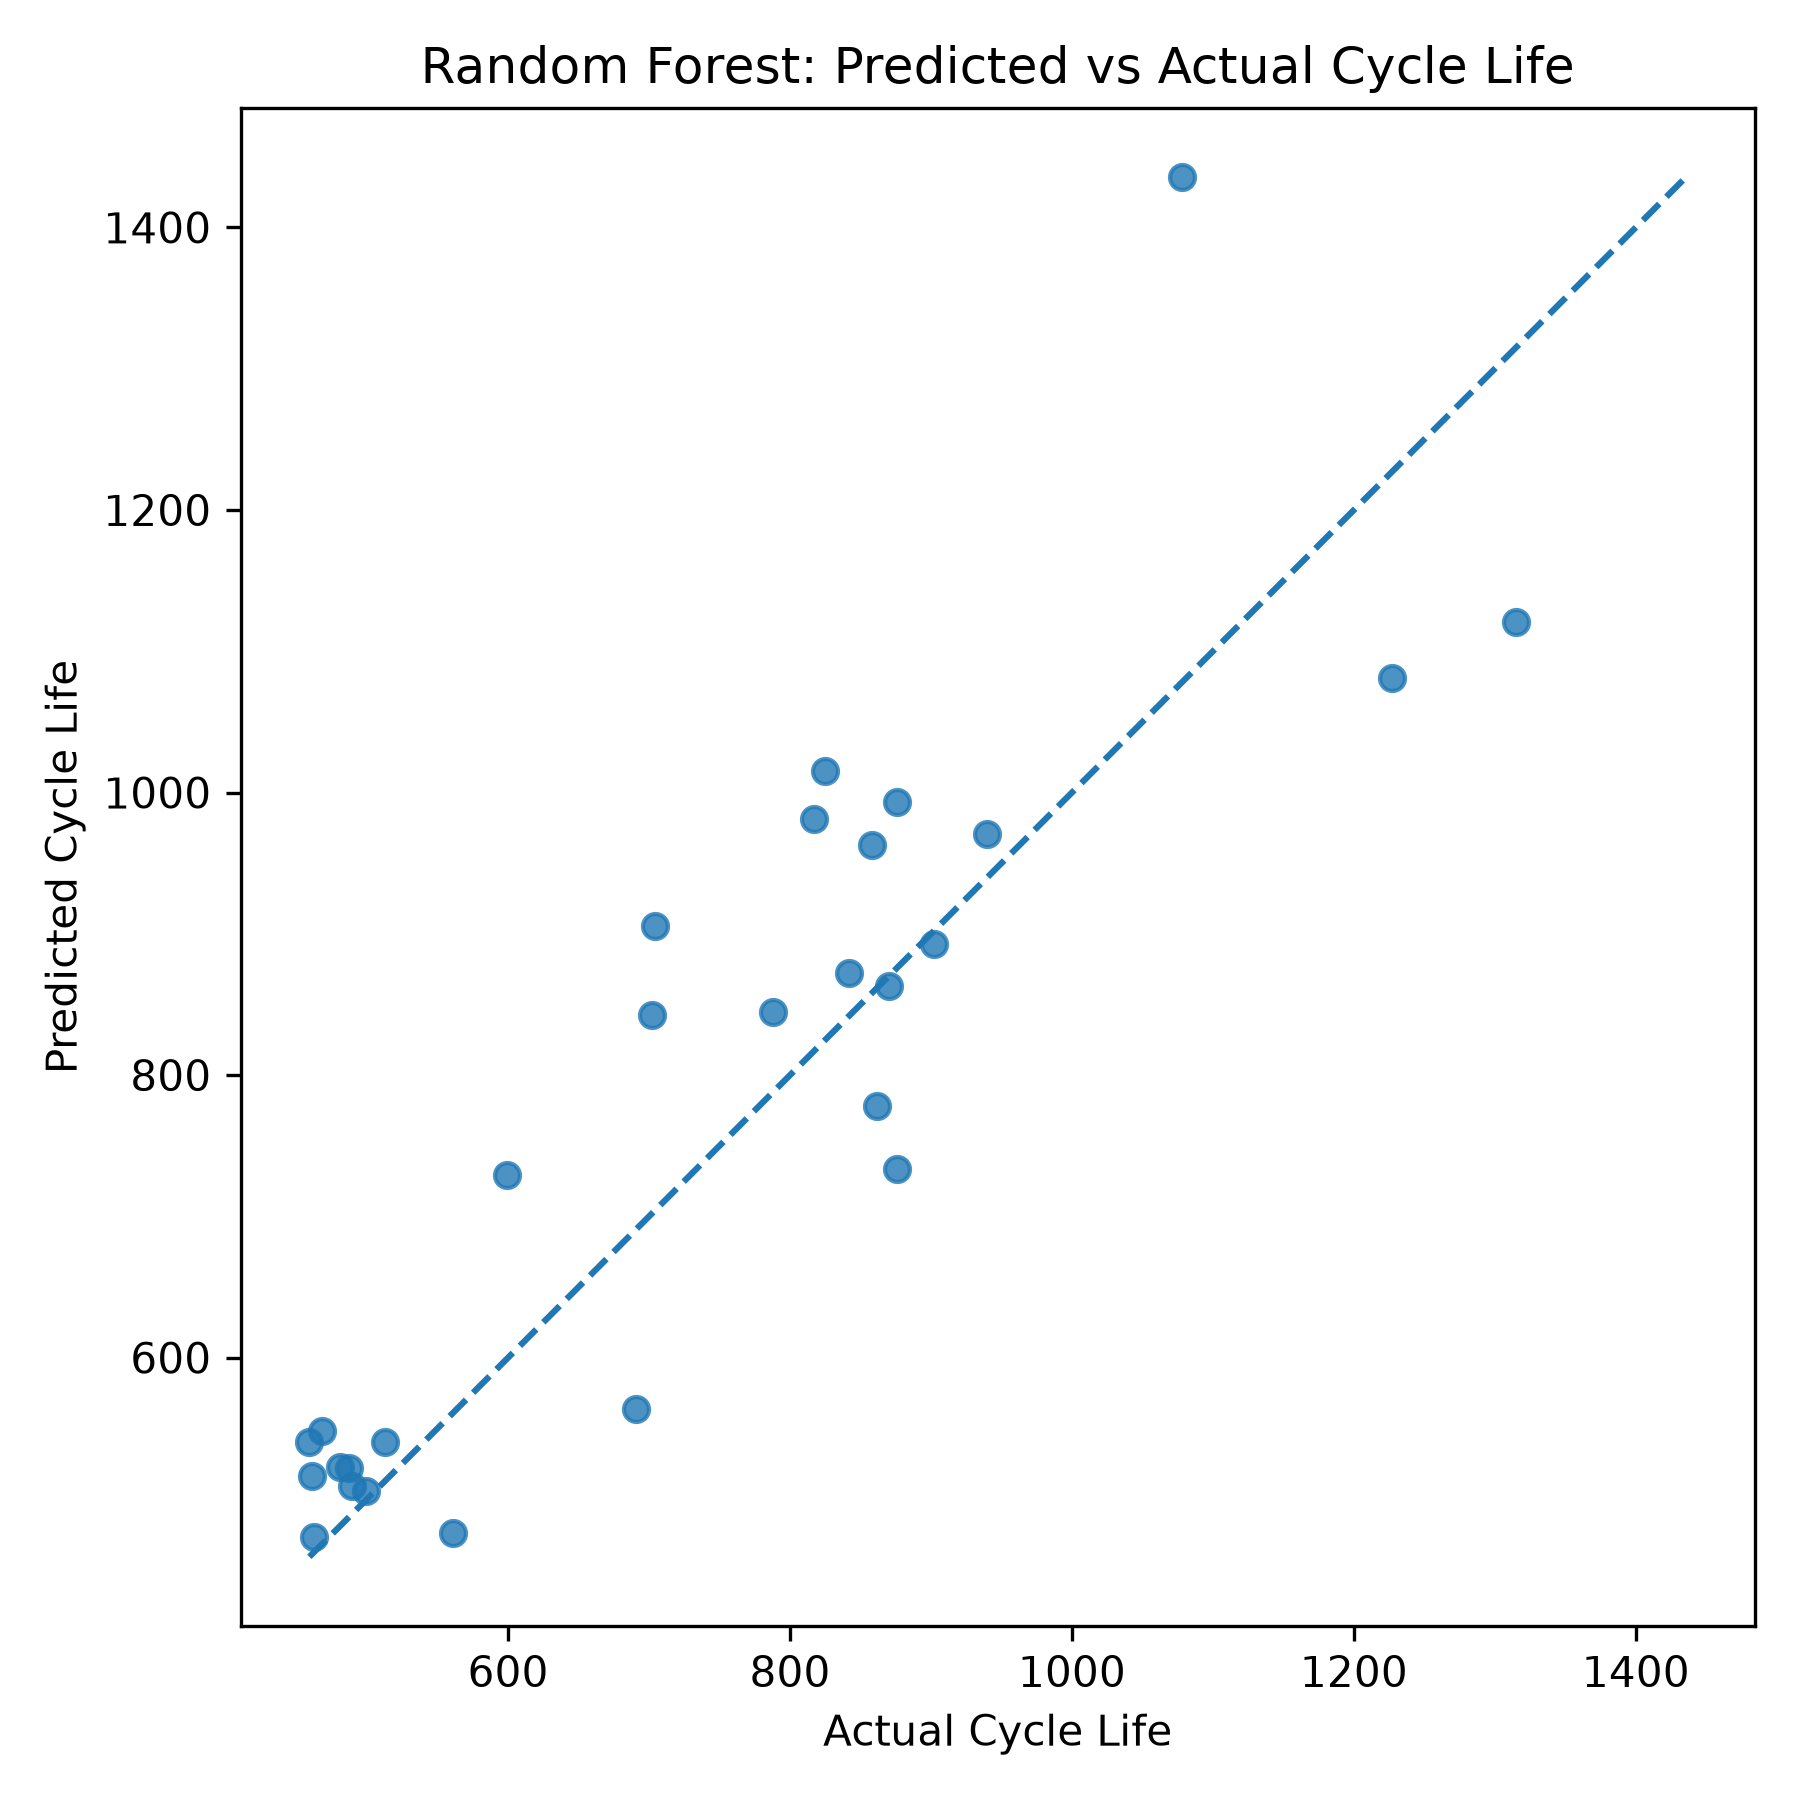
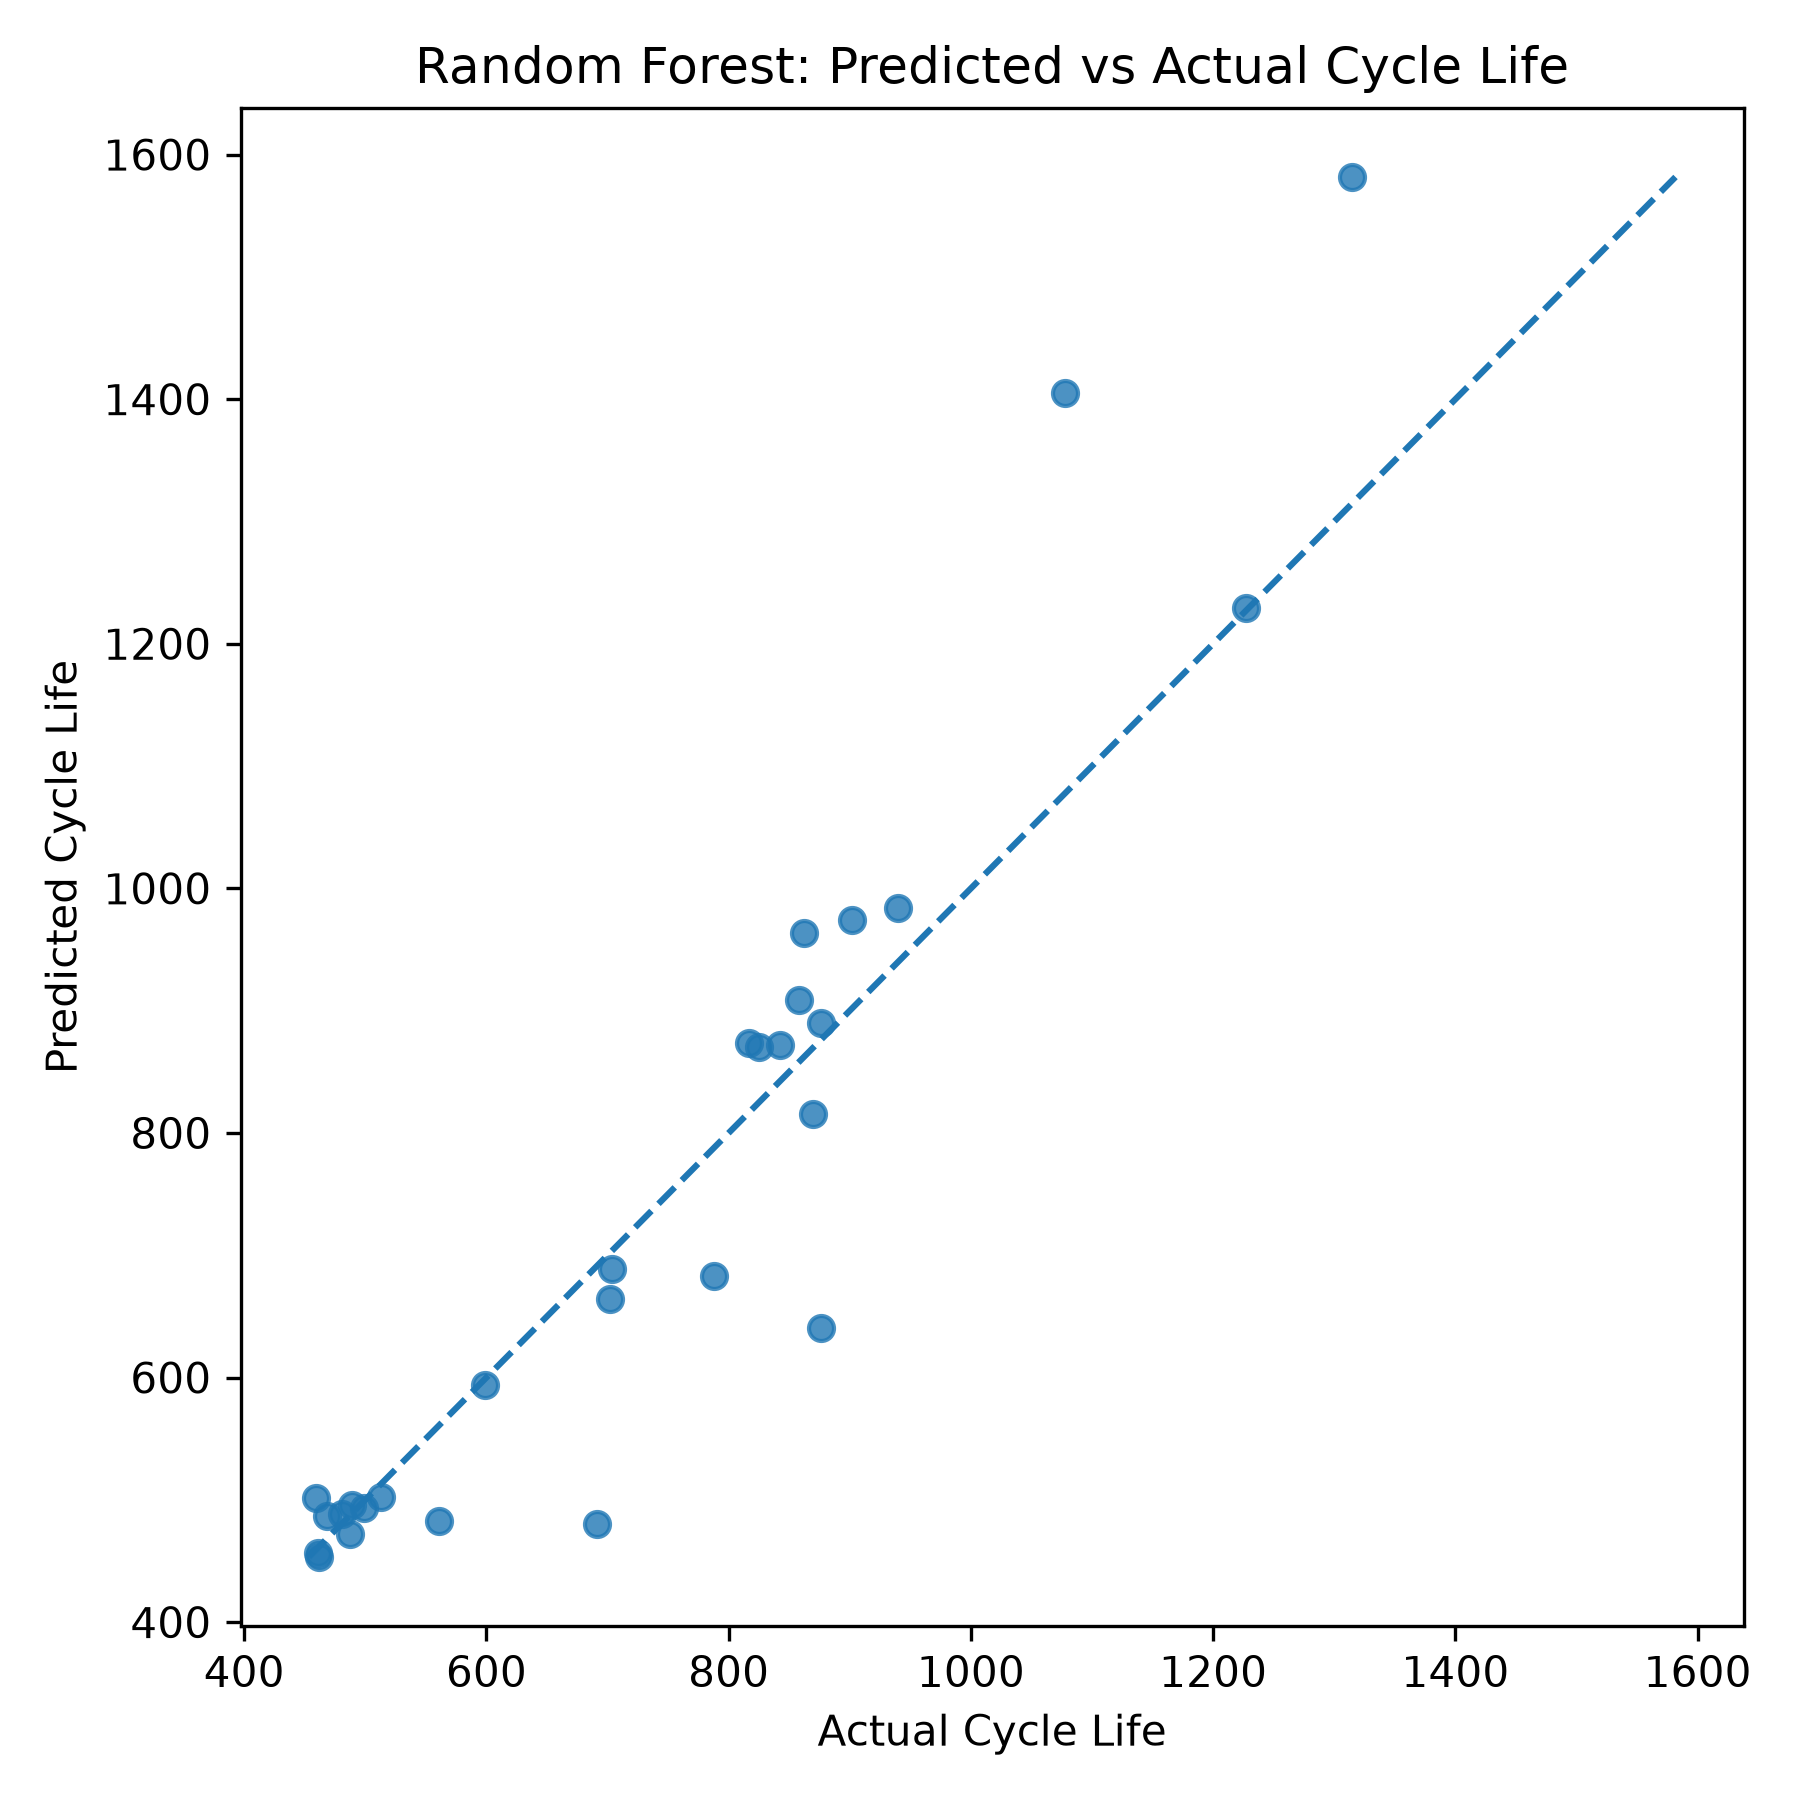
Add delta Q features and improve model performance

diff --git a/src/data_loader.py b/src/data_loader.py
@@ -2,7 +2,15 @@ from pathlib import Path
 import h5py
 import numpy as np
 
-from features import extract_summary_features_for_cell
+from features import extract_summary_features_for_cell, extract_delta_q_features_for_cell
+
+
+def _read_scalar(dataset):
+    """Read a scalar or 1-element dataset from HDF5 and return a Python scalar."""
+    value = dataset[()]
+    if isinstance(value, np.ndarray):
+        value = value.squeeze()
+    return value
 
 def get_raw_data_files(raw_dir="data/raw"):
     """
@@ -35,8 +43,8 @@ def load_cycle_lives(file_path):
 
         for i in range(cycle_life_refs.shape[0]):
             ref = cycle_life_refs[i, 0]
-            value = f[ref][()]
-            clean_value = float(value.squeeze())
+            value = _read_scalar(f[ref])
+            clean_value = float(value)
 
             if np.isnan(clean_value):
                 print(f"Skipping cell {i} in {file_path.name}: cycle life is NaN")
@@ -67,8 +75,8 @@ def inspect_mat_file(file_path):
 
         for i in range(min(10, cycle_life_refs.shape[0])):
             ref = cycle_life_refs[i, 0]
-            value = f[ref][()]
-            clean_value = int(value.squeeze())
+            value = _read_scalar(f[ref])
+            clean_value = int(value)
 
             print(f"Cell {i}: {clean_value} cycles")
 
@@ -97,11 +105,23 @@ if __name__ == "__main__":
                     print(f"Skipping cell {cell_index}: cycle life is NaN")
                     continue
 
-                features = extract_summary_features_for_cell(
+                summary_features = extract_summary_features_for_cell(
                     h5_file=f,
                     batch=batch,
                     cell_index=cell_index
                 )
+
+                delta_q_features = extract_delta_q_features_for_cell(
+                    h5_file=f,
+                    batch=batch,
+                    cell_index=cell_index,
+                    cycle_early=10,
+                    cycle_late=100
+                )
+
+                features = {}
+                features.update(summary_features)
+                features.update(delta_q_features)
 
                 record = {
                     "batch_file": file.name,
@@ -123,8 +143,8 @@ if __name__ == "__main__":
     print("\nShape:")
     print(df.shape)
 
-    print("\nCycle life summary:")
-    print(df["cycle_life"].describe())
+    print("\nColumns:")
+    print(df.columns.tolist())
 
     output_path = Path("data/processed/summary_features.csv")
     output_path.parent.mkdir(parents=True, exist_ok=True)
@@ -132,3 +152,11 @@ if __name__ == "__main__":
     df.to_csv(output_path, index=False)
 
     print(f"\nSaved summary feature table to: {output_path}")
+
+
+
+
+
+
+
+

diff --git a/src/features.py b/src/features.py
@@ -32,3 +32,45 @@ def extract_summary_features_for_cell(h5_file, batch, cell_index):
     }
 
     return features
+
+def extract_delta_q_features_for_cell(h5_file, batch, cell_index, cycle_early=10, cycle_late=100):
+    """
+    Extract Delta Q features using Qdlin from two early cycles.
+
+    Delta Q = Qdlin(cycle_late) - Qdlin(cycle_early)
+
+    cycle_early and cycle_late are written using human cycle numbers,
+    so cycle 10 corresponds to Python index 9.
+    """
+    cycles_refs = batch["cycles"]
+    ref = cycles_refs[cell_index, 0]
+    cycles = h5_file[ref]
+
+    early_index = cycle_early - 1
+    late_index = cycle_late - 1
+
+    qdlin_early_ref = cycles["Qdlin"][early_index, 0]
+    qdlin_late_ref = cycles["Qdlin"][late_index, 0]
+
+    qdlin_early = h5_file[qdlin_early_ref][()].squeeze()
+    qdlin_late = h5_file[qdlin_late_ref][()].squeeze()
+
+    delta_q = qdlin_late - qdlin_early
+
+    features = {
+        f"delta_q_min_{cycle_late}_{cycle_early}": float(np.min(delta_q)),
+        f"delta_q_max_{cycle_late}_{cycle_early}": float(np.max(delta_q)),
+        f"delta_q_mean_{cycle_late}_{cycle_early}": float(np.mean(delta_q)),
+        f"delta_q_var_{cycle_late}_{cycle_early}": float(np.var(delta_q)),
+    }
+
+    return features
+
+
+
+
+
+
+
+
+

diff --git a/src/models.py b/src/models.py
@@ -135,13 +135,20 @@ if __name__ == "__main__":
 
     plt.plot([min_value, max_value], [min_value, max_value], linestyle="--")
 
-    plt.title("Random Forest: Predicted vs Actual Cycle Life")
+    plt.scatter(y_test, ridge_predictions, alpha=0.8)
+
+    min_value = min(y_test.min(), ridge_predictions.min())
+    max_value = max(y_test.max(), ridge_predictions.max())
+
+    plt.plot([min_value, max_value], [min_value, max_value], linestyle="--")
+
+    plt.title("Ridge Regression: Predicted vs Actual Cycle Life")
     plt.xlabel("Actual Cycle Life")
     plt.ylabel("Predicted Cycle Life")
 
     plt.tight_layout()
 
-    output_plot = figures_dir / "random_forest_predicted_vs_actual.png"
+    output_plot = figures_dir / "ridge_predicted_vs_actual.png"
     plt.savefig(output_plot, dpi=300)
     plt.close()
 
